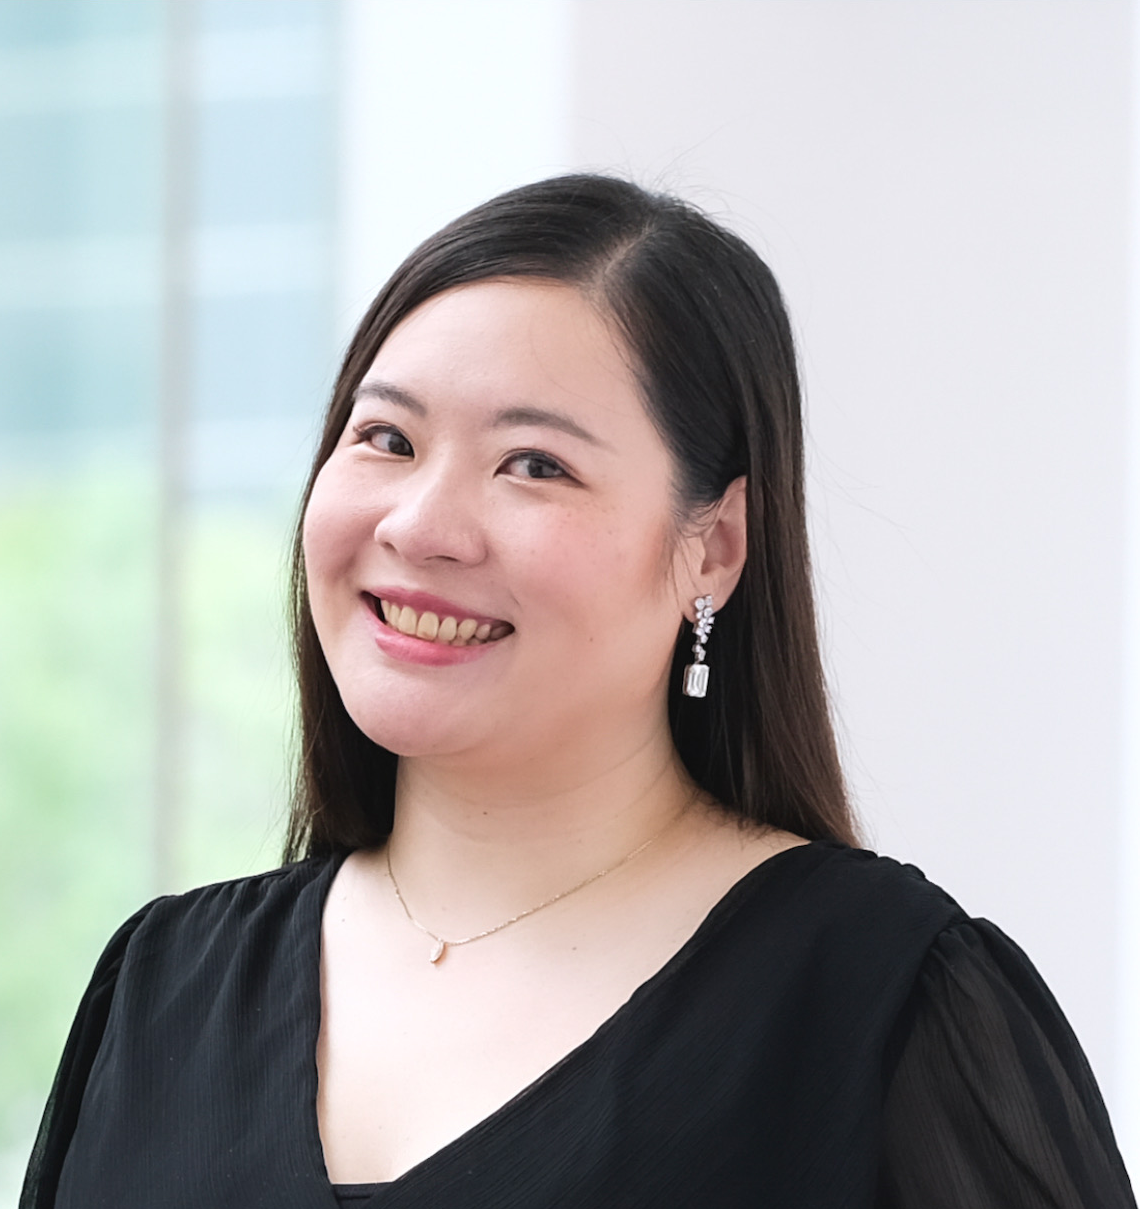
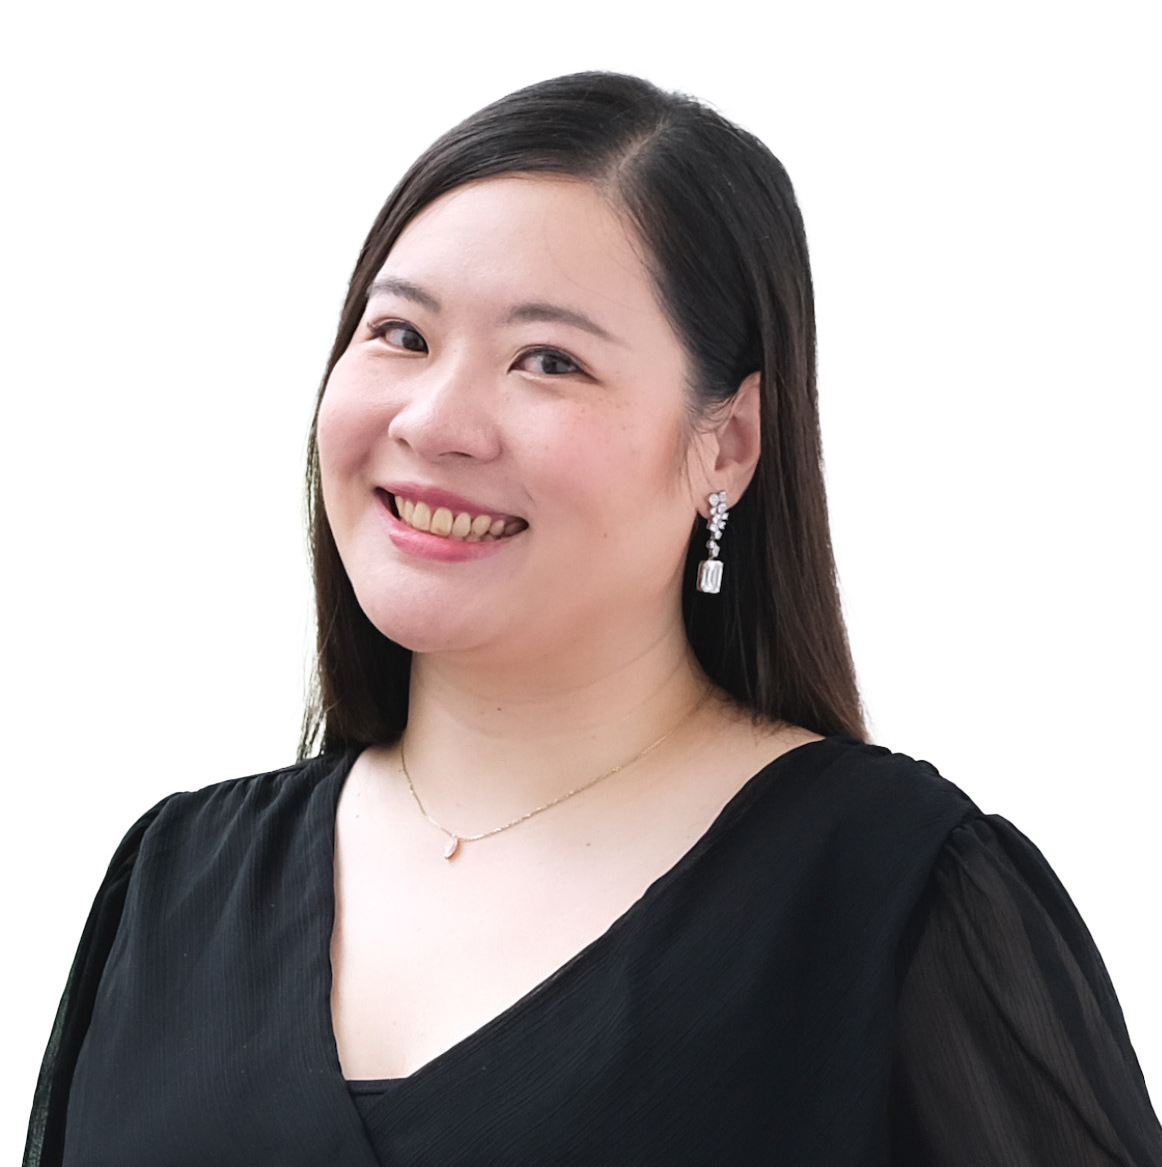
CM2

diff --git a/_site/committee.html b/_site/committee.html
@@ -365,7 +365,7 @@ main.content {
     <div class="text-cell">
         <h3 class="anchored">ADMINISTRATION LEAD: Ms. Candy LAU</h3>
         <div class="affiliation">Executive Officer, Department of Architecture</div>
-        <p>Candy has been instrumental in enabling the conference logistics and has worked tirelessly to make sure the delivery of info is speedy and accurate across the board.</p>
+        <p>Candy Lau is an Executive Officer at the University of Hong Kong. With a unique background combining arts administration and public relations, Candy brings extensive insights in managing cultural events and collaborating closely with creative teams and artists. She holds a Master’s degree in Communication from Hong Kong Baptist University and a Bachelor’s in Arts, Event &amp; Stage Management from The Hong Kong Academy for Performing Arts. Candy’s expertise in event coordination, stakeholder engagement, theatre production management and multimedia content development contribute to dynamic experiences that fosters innovation and global collaboration in the creative industry.</p>
     </div>
 </div>
 <div class="table-container">
